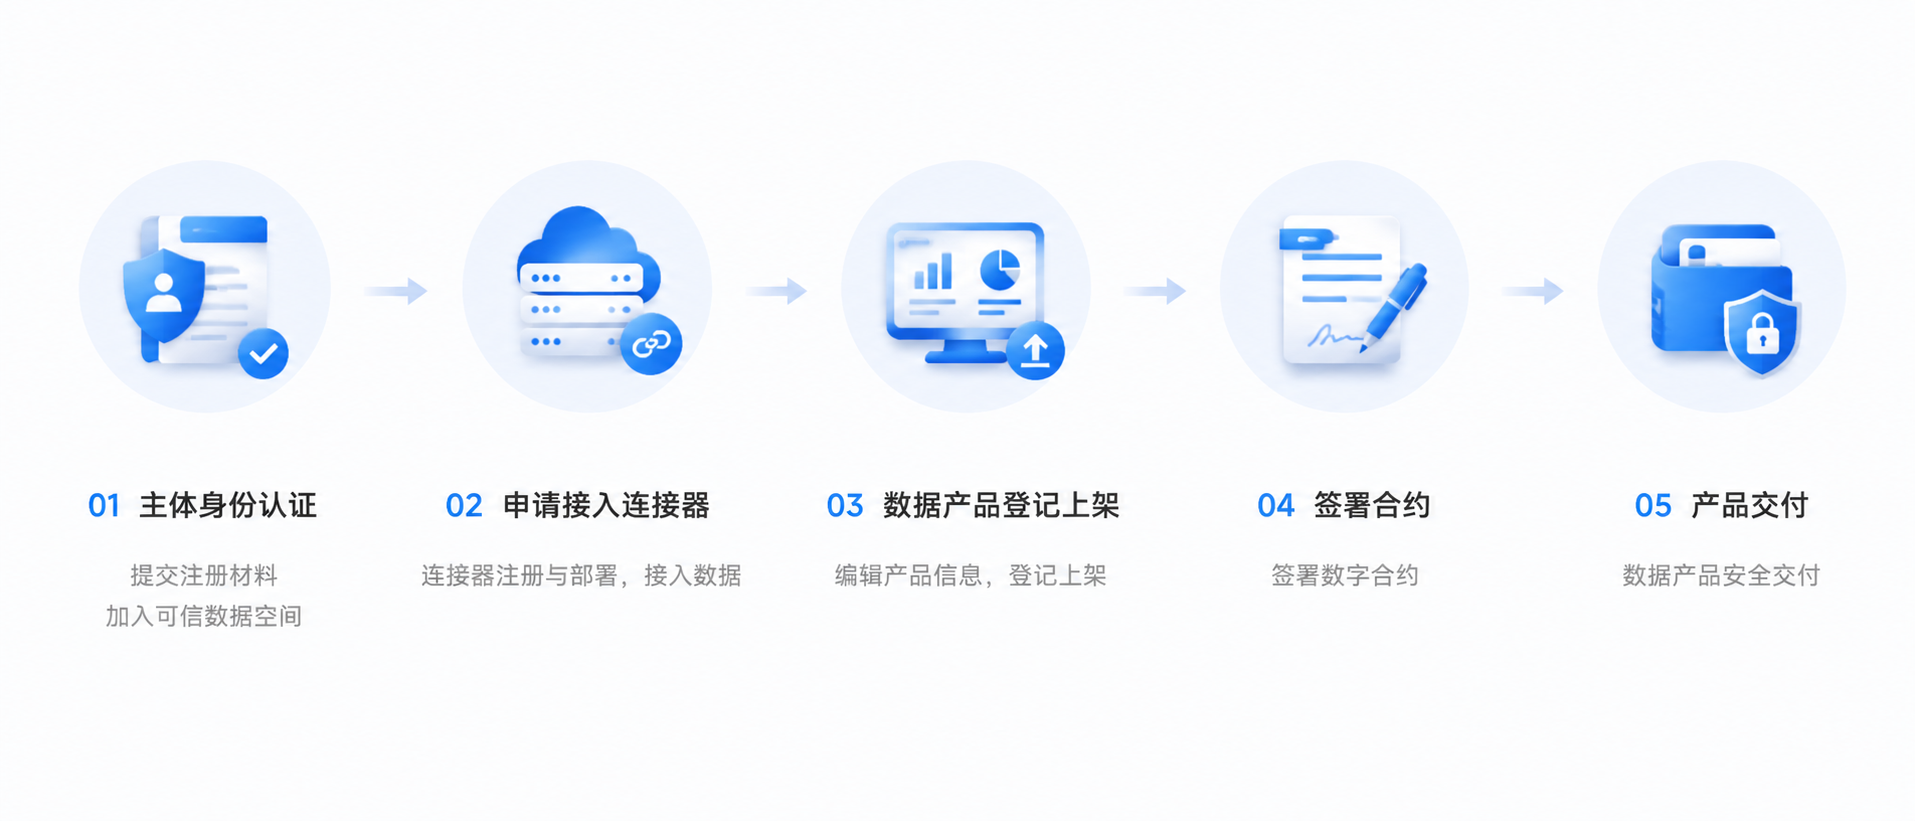
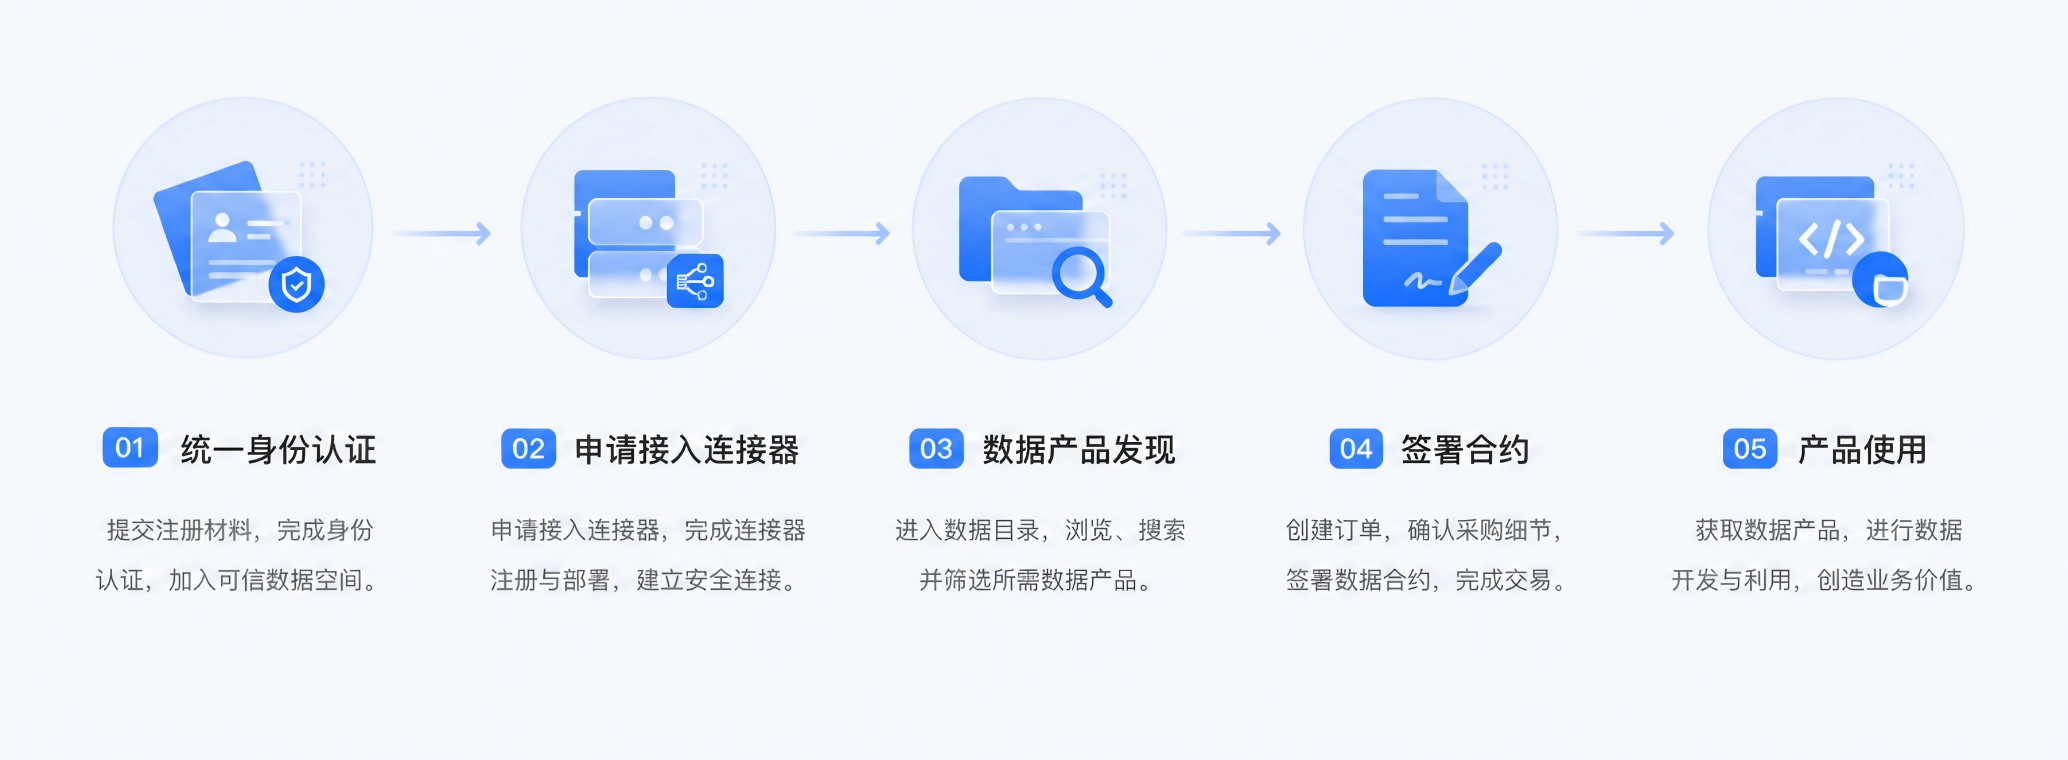
chore: sync updated image and index tweaks

diff --git a/index.html b/index.html
@@ -1530,7 +1530,7 @@
 
         <div class="join-panel" id="panel-need">
           <div class="join-card">
-            <div class="join-flowchart"></div>
+            <div class="join-flowchart"><img src="./assets/images/我要资源流程图.png" alt="我要资源资源流程图"></div>
             <div class="join-actions">
               <button class="btn-primary" data-toast="数据资源页面正在建设中，敬请期待">去发现资源</button>
             </div>
